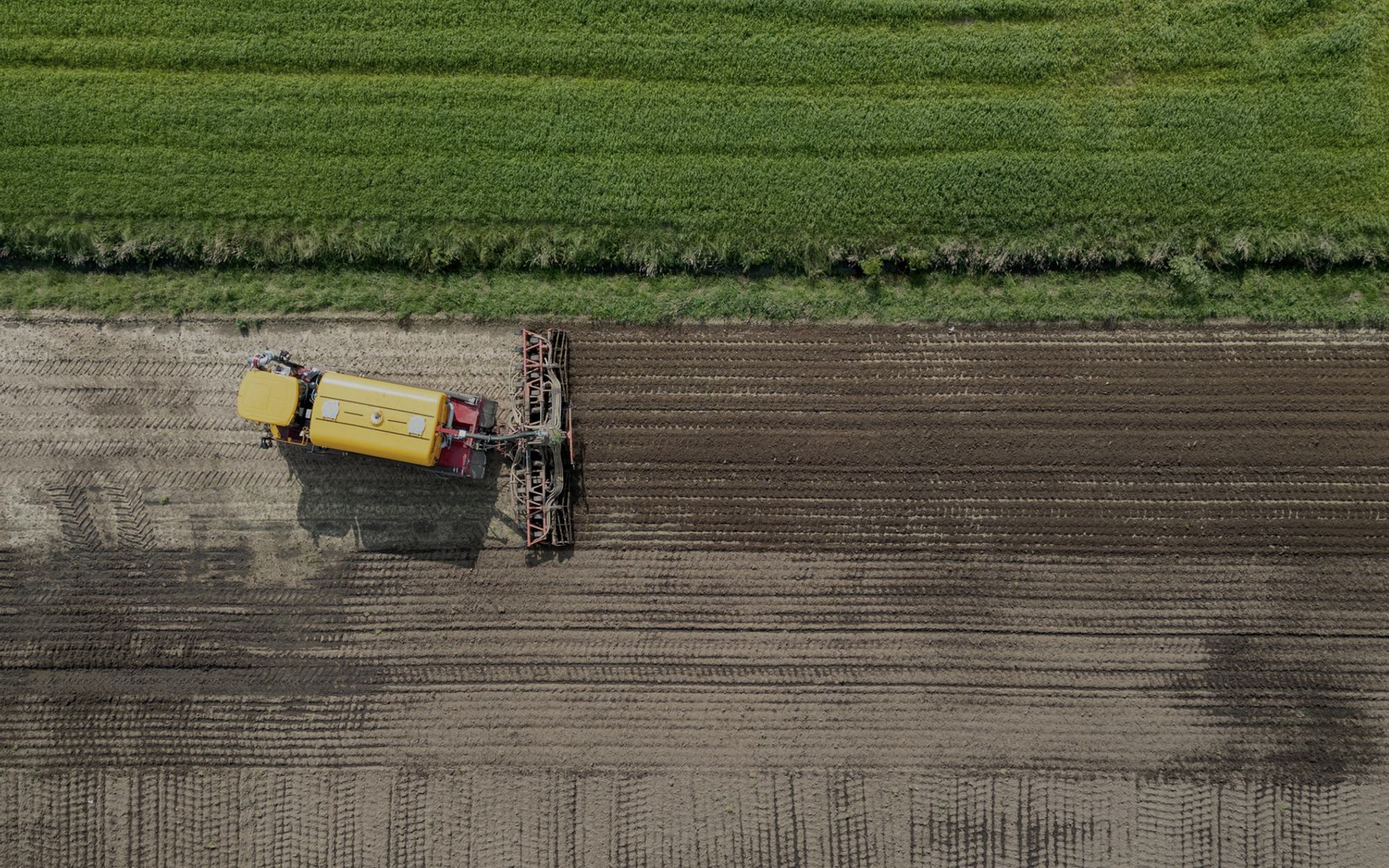
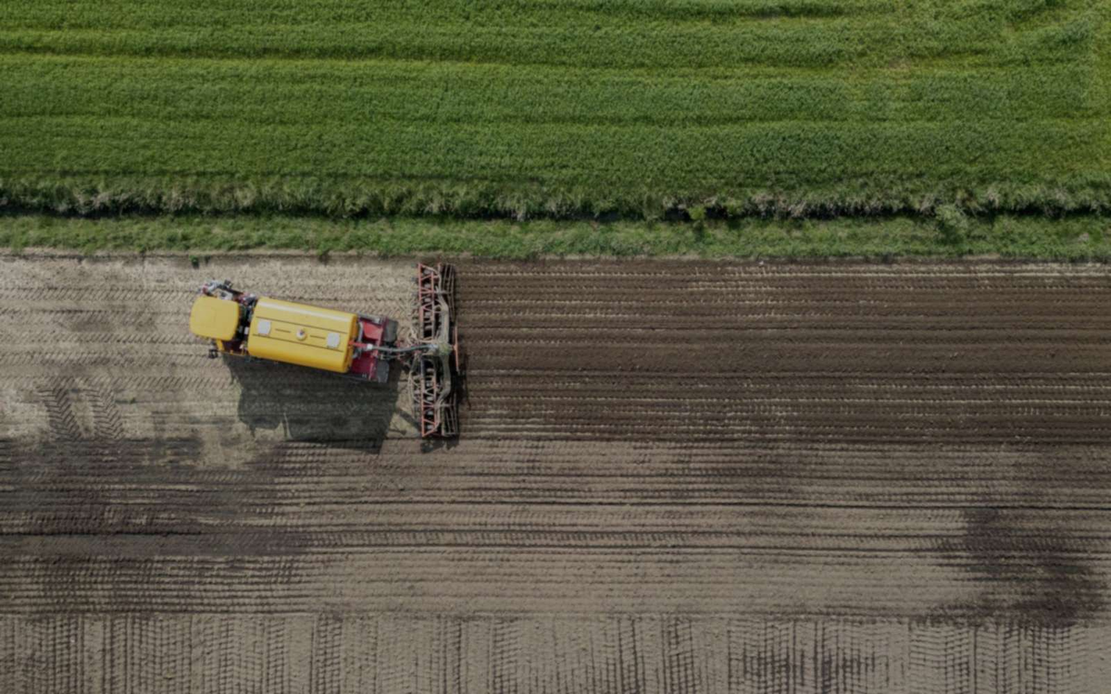
Cut the hero image by 68%, add redirect stubs for the old Wix URLs
The homepage was 617 KB above the fold and 525 KB of that was one photo. It
sits under a veil at 66% opacity, desaturated and darkened, so it was carrying
far more detail than is ever visible: 1600px wide, a 1px blur and q60 brings it
to 167 KB with no perceptible change through that treatment.

Redirect stubs cover the eight Wix paths that will 404 after the cutover
(/about-1, /general-4, /projects, both project pages, /blogs-news,
/work-with-us, /remove-co2). GitHub Pages cannot issue 301s, so each is an
instant meta refresh plus rel=canonical to the new page, noindex, and a
visible link if both fail. Verified in a browser: all eight serve 200 and
resolve to a 200.

Changed region(s): [[0.375, 0.372, 0.4062, 0.496], [0.375, 0.558, 0.4062, 0.62]]

diff --git a/projects/malaysia-soil-and-flame/index.html b/projects/malaysia-soil-and-flame/index.html
@@ -1,0 +1,19 @@
+<!doctype html>
+<html lang="en">
+<head>
+<meta charset="utf-8">
+<title>Redirecting to Soil and Flame</title>
+<meta name="robots" content="noindex">
+<link rel="canonical" href="https://reclimate.earth/soil-and-flame.html">
+<meta http-equiv="refresh" content="0; url=../../soil-and-flame.html">
+<style>
+  body{margin:0;min-height:100vh;display:grid;place-items:center;background:#07120F;color:#93A69F;
+       font:15px/1.6 Inter,system-ui,sans-serif;text-align:center;padding:24px}
+  a{color:#F8AB4A}
+</style>
+</head>
+<body>
+  <p>This page has moved.<br><a href="../../soil-and-flame.html">Continue to Soil and Flame</a></p>
+  <script>location.replace("../../soil-and-flame.html");</script>
+</body>
+</html>

diff --git a/projects/indonesia-nusantara-archipelago-project/index.html b/projects/indonesia-nusantara-archipelago-project/index.html
@@ -1,0 +1,19 @@
+<!doctype html>
+<html lang="en">
+<head>
+<meta charset="utf-8">
+<title>Redirecting to Nusantara Archipelago</title>
+<meta name="robots" content="noindex">
+<link rel="canonical" href="https://reclimate.earth/nusantara.html">
+<meta http-equiv="refresh" content="0; url=../../nusantara.html">
+<style>
+  body{margin:0;min-height:100vh;display:grid;place-items:center;background:#07120F;color:#93A69F;
+       font:15px/1.6 Inter,system-ui,sans-serif;text-align:center;padding:24px}
+  a{color:#F8AB4A}
+</style>
+</head>
+<body>
+  <p>This page has moved.<br><a href="../../nusantara.html">Continue to Nusantara Archipelago</a></p>
+  <script>location.replace("../../nusantara.html");</script>
+</body>
+</html>

diff --git a/work-with-us/index.html b/work-with-us/index.html
@@ -1,0 +1,19 @@
+<!doctype html>
+<html lang="en">
+<head>
+<meta charset="utf-8">
+<title>Redirecting to Work with us</title>
+<meta name="robots" content="noindex">
+<link rel="canonical" href="https://reclimate.earth/work-with-us.html">
+<meta http-equiv="refresh" content="0; url=../work-with-us.html">
+<style>
+  body{margin:0;min-height:100vh;display:grid;place-items:center;background:#07120F;color:#93A69F;
+       font:15px/1.6 Inter,system-ui,sans-serif;text-align:center;padding:24px}
+  a{color:#F8AB4A}
+</style>
+</head>
+<body>
+  <p>This page has moved.<br><a href="../work-with-us.html">Continue to Work with us</a></p>
+  <script>location.replace("../work-with-us.html");</script>
+</body>
+</html>

diff --git a/remove-co2/index.html b/remove-co2/index.html
@@ -1,0 +1,19 @@
+<!doctype html>
+<html lang="en">
+<head>
+<meta charset="utf-8">
+<title>Redirecting to Remove CO₂</title>
+<meta name="robots" content="noindex">
+<link rel="canonical" href="https://reclimate.earth/remove-co2.html">
+<meta http-equiv="refresh" content="0; url=../remove-co2.html">
+<style>
+  body{margin:0;min-height:100vh;display:grid;place-items:center;background:#07120F;color:#93A69F;
+       font:15px/1.6 Inter,system-ui,sans-serif;text-align:center;padding:24px}
+  a{color:#F8AB4A}
+</style>
+</head>
+<body>
+  <p>This page has moved.<br><a href="../remove-co2.html">Continue to Remove CO₂</a></p>
+  <script>location.replace("../remove-co2.html");</script>
+</body>
+</html>

diff --git a/projects/index.html b/projects/index.html
@@ -1,0 +1,19 @@
+<!doctype html>
+<html lang="en">
+<head>
+<meta charset="utf-8">
+<title>Redirecting to Projects</title>
+<meta name="robots" content="noindex">
+<link rel="canonical" href="https://reclimate.earth/projects.html">
+<meta http-equiv="refresh" content="0; url=../projects.html">
+<style>
+  body{margin:0;min-height:100vh;display:grid;place-items:center;background:#07120F;color:#93A69F;
+       font:15px/1.6 Inter,system-ui,sans-serif;text-align:center;padding:24px}
+  a{color:#F8AB4A}
+</style>
+</head>
+<body>
+  <p>This page has moved.<br><a href="../projects.html">Continue to Projects</a></p>
+  <script>location.replace("../projects.html");</script>
+</body>
+</html>

diff --git a/general-4/index.html b/general-4/index.html
@@ -1,0 +1,19 @@
+<!doctype html>
+<html lang="en">
+<head>
+<meta charset="utf-8">
+<title>Redirecting to Biochar</title>
+<meta name="robots" content="noindex">
+<link rel="canonical" href="https://reclimate.earth/biochar.html">
+<meta http-equiv="refresh" content="0; url=../biochar.html">
+<style>
+  body{margin:0;min-height:100vh;display:grid;place-items:center;background:#07120F;color:#93A69F;
+       font:15px/1.6 Inter,system-ui,sans-serif;text-align:center;padding:24px}
+  a{color:#F8AB4A}
+</style>
+</head>
+<body>
+  <p>This page has moved.<br><a href="../biochar.html">Continue to Biochar</a></p>
+  <script>location.replace("../biochar.html");</script>
+</body>
+</html>

diff --git a/about-1/index.html b/about-1/index.html
@@ -1,0 +1,19 @@
+<!doctype html>
+<html lang="en">
+<head>
+<meta charset="utf-8">
+<title>Redirecting to About</title>
+<meta name="robots" content="noindex">
+<link rel="canonical" href="https://reclimate.earth/about.html">
+<meta http-equiv="refresh" content="0; url=../about.html">
+<style>
+  body{margin:0;min-height:100vh;display:grid;place-items:center;background:#07120F;color:#93A69F;
+       font:15px/1.6 Inter,system-ui,sans-serif;text-align:center;padding:24px}
+  a{color:#F8AB4A}
+</style>
+</head>
+<body>
+  <p>This page has moved.<br><a href="../about.html">Continue to About</a></p>
+  <script>location.replace("../about.html");</script>
+</body>
+</html>

diff --git a/blogs-news/index.html b/blogs-news/index.html
@@ -1,0 +1,19 @@
+<!doctype html>
+<html lang="en">
+<head>
+<meta charset="utf-8">
+<title>Redirecting to News</title>
+<meta name="robots" content="noindex">
+<link rel="canonical" href="https://reclimate.earth/news.html">
+<meta http-equiv="refresh" content="0; url=../news.html">
+<style>
+  body{margin:0;min-height:100vh;display:grid;place-items:center;background:#07120F;color:#93A69F;
+       font:15px/1.6 Inter,system-ui,sans-serif;text-align:center;padding:24px}
+  a{color:#F8AB4A}
+</style>
+</head>
+<body>
+  <p>This page has moved.<br><a href="../news.html">Continue to News</a></p>
+  <script>location.replace("../news.html");</script>
+</body>
+</html>

diff --git a/index.html b/index.html
@@ -83,7 +83,7 @@
 <!-- hero -->
 <section class="hero">
   <div class="hero__photo" aria-hidden="true">
-    <img src="assets/img/hero.jpg" alt="" fetchpriority="high" width="2000" height="1250">
+    <img src="assets/img/hero.jpg?v=2" alt="" fetchpriority="high" width="1600" height="1000">
   </div>
   <canvas class="hero__embers" id="embers" aria-hidden="true"></canvas>
   <div class="hero__veil" aria-hidden="true"></div>
